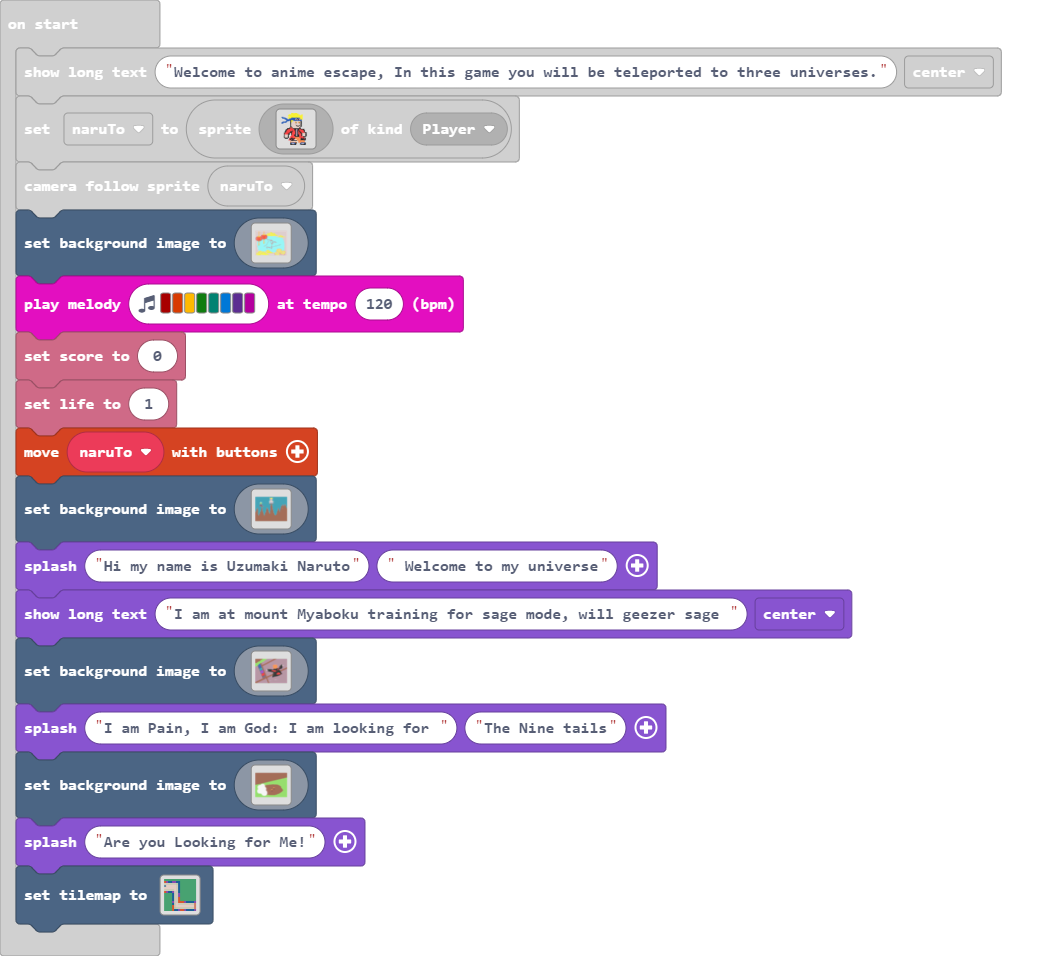
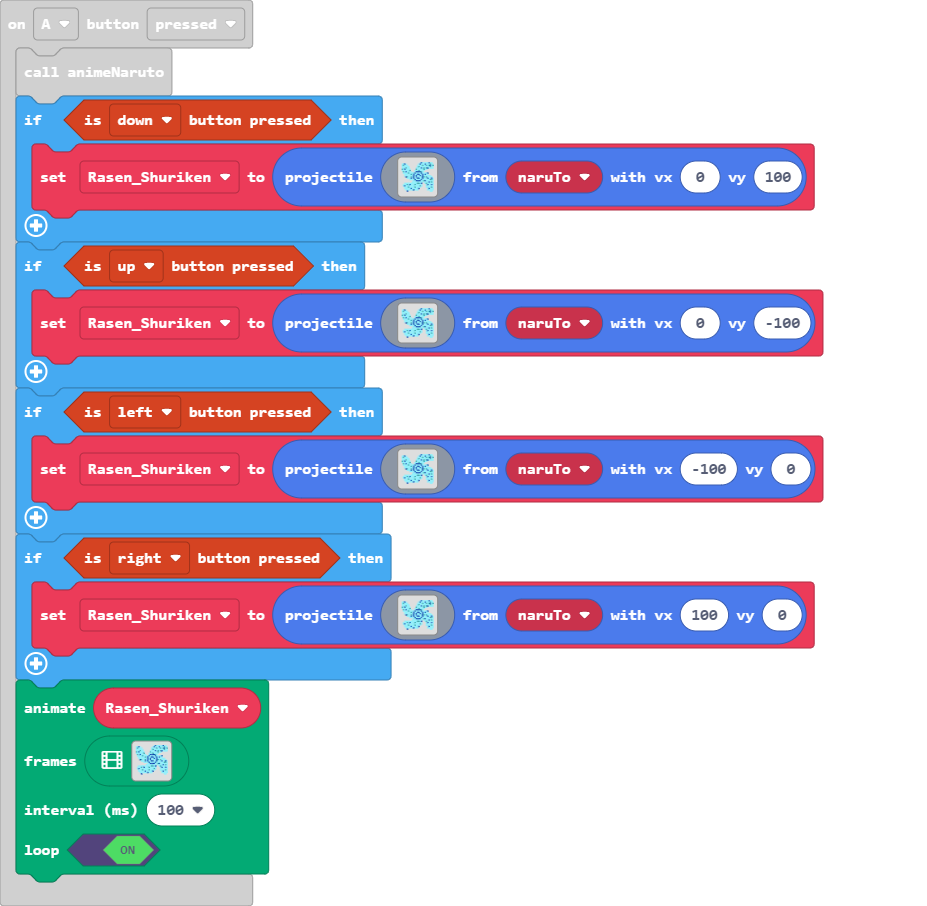
Update main.blocks, main.ts

diff --git a/main.ts b/main.ts
@@ -150,7 +150,18 @@ function enemYs () {
 }
 controller.A.onEvent(ControllerButtonEvent.Pressed, function () {
     animeNaruto()
-    Rasen_Shuriken = sprites.createProjectileFromSprite(assets.image`Rasen Shuriken`, naruTo, 100, 0)
+    if (controller.down.isPressed()) {
+        Rasen_Shuriken = sprites.createProjectileFromSprite(assets.image`Rasen Shuriken`, naruTo, 0, 100)
+    }
+    if (controller.up.isPressed()) {
+        Rasen_Shuriken = sprites.createProjectileFromSprite(assets.image`Rasen Shuriken`, naruTo, 0, -100)
+    }
+    if (controller.left.isPressed()) {
+        Rasen_Shuriken = sprites.createProjectileFromSprite(assets.image`Rasen Shuriken`, naruTo, -100, 0)
+    }
+    if (controller.right.isPressed()) {
+        Rasen_Shuriken = sprites.createProjectileFromSprite(assets.image`Rasen Shuriken`, naruTo, 100, 0)
+    }
     animation.runImageAnimation(
     Rasen_Shuriken,
     assets.animation`rasen move`,
